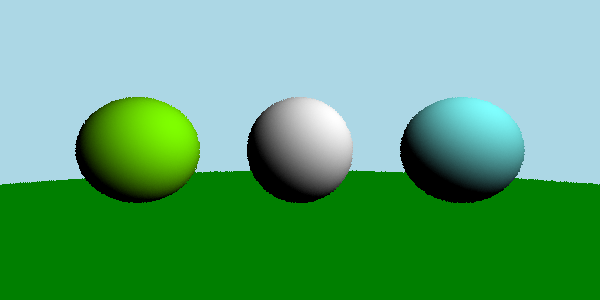
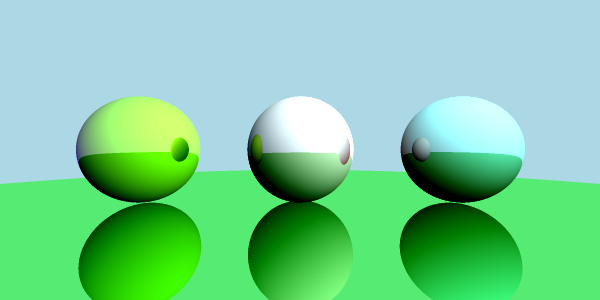
readd reflection

diff --git a/Renderer.py b/Renderer.py
@@ -55,7 +55,7 @@ class Renderer:
             color = np.array([[0], [0], [0]])
             multiplier = 1.0
 
-            bounces = 1
+            bounces = 2
 
             for i in range(0, bounces):
 
@@ -64,7 +64,7 @@ class Renderer:
                 if hitPayload.HitDistance < 0.0:
                     skyColor = np.array([[0.678], [0.847], [0.901]])
                     color = color + skyColor * multiplier
-                    return Utils.toColor(color)
+                    break
 
                 lightSource = np.array([[2],[2],[2]])
 
@@ -77,7 +77,7 @@ class Renderer:
                 sphereColor = sphereColor * lightIntensity
                 color = color + sphereColor * multiplier
 
-                multiplier = multiplier * 0.7
+                multiplier = multiplier * 0.5
 
                 ray.Origin = hitPayload.WorldPosition + hitPayload.WorldNormal * 0.0001
                 ray.Direction = ray.Direction - 2 * (np.dot(ray.Direction.T, hitPayload.WorldNormal) * hitPayload.WorldNormal)
